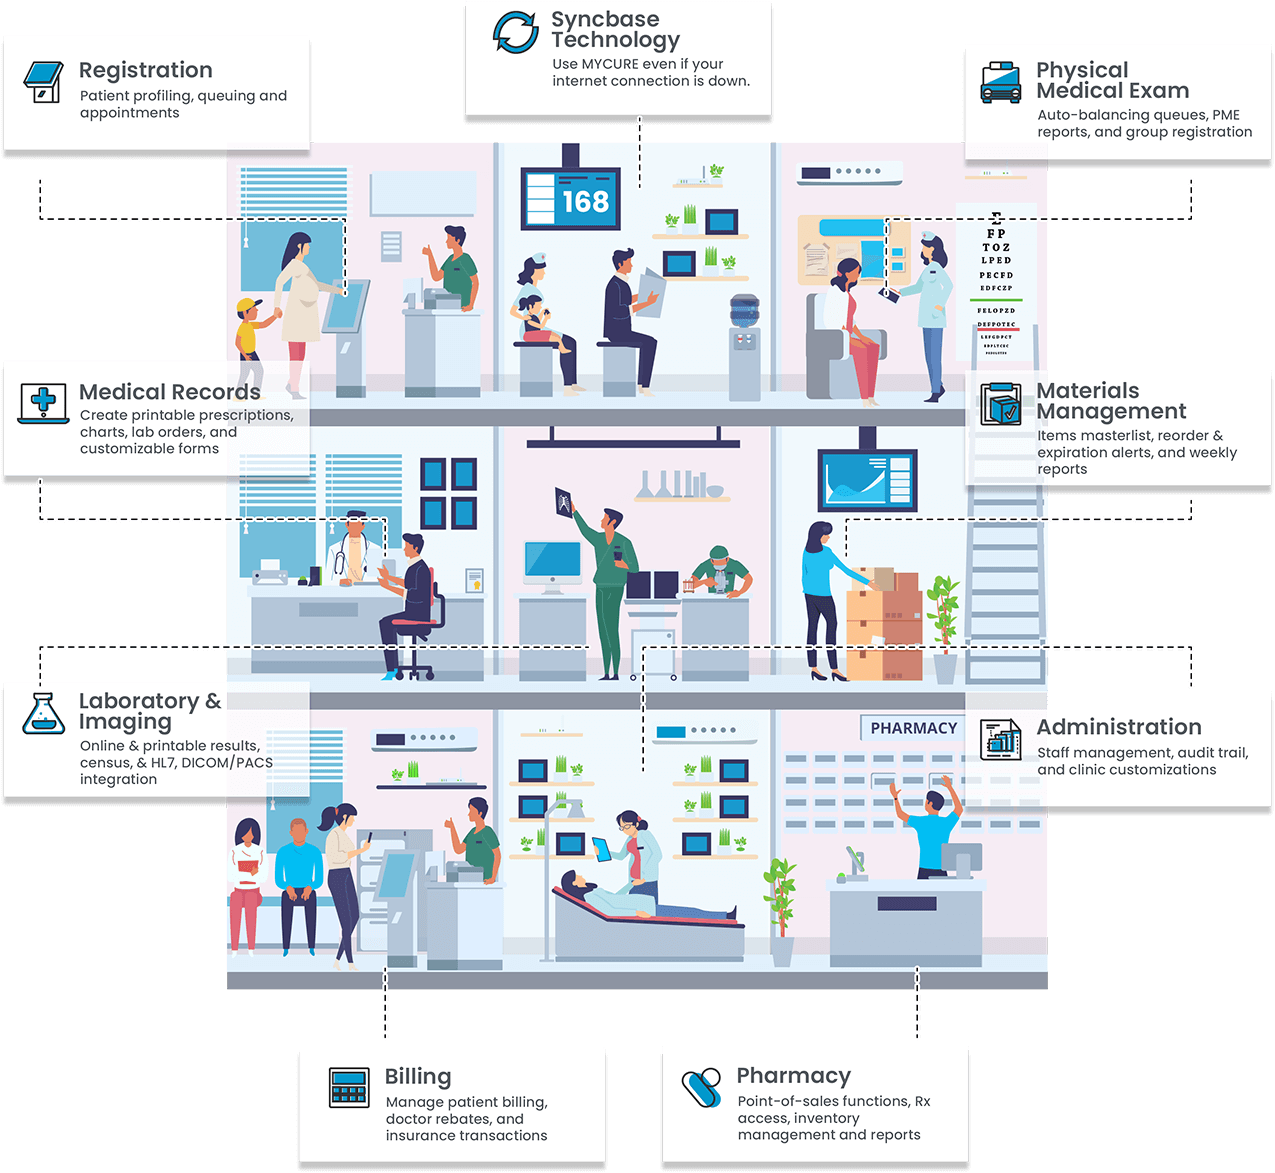
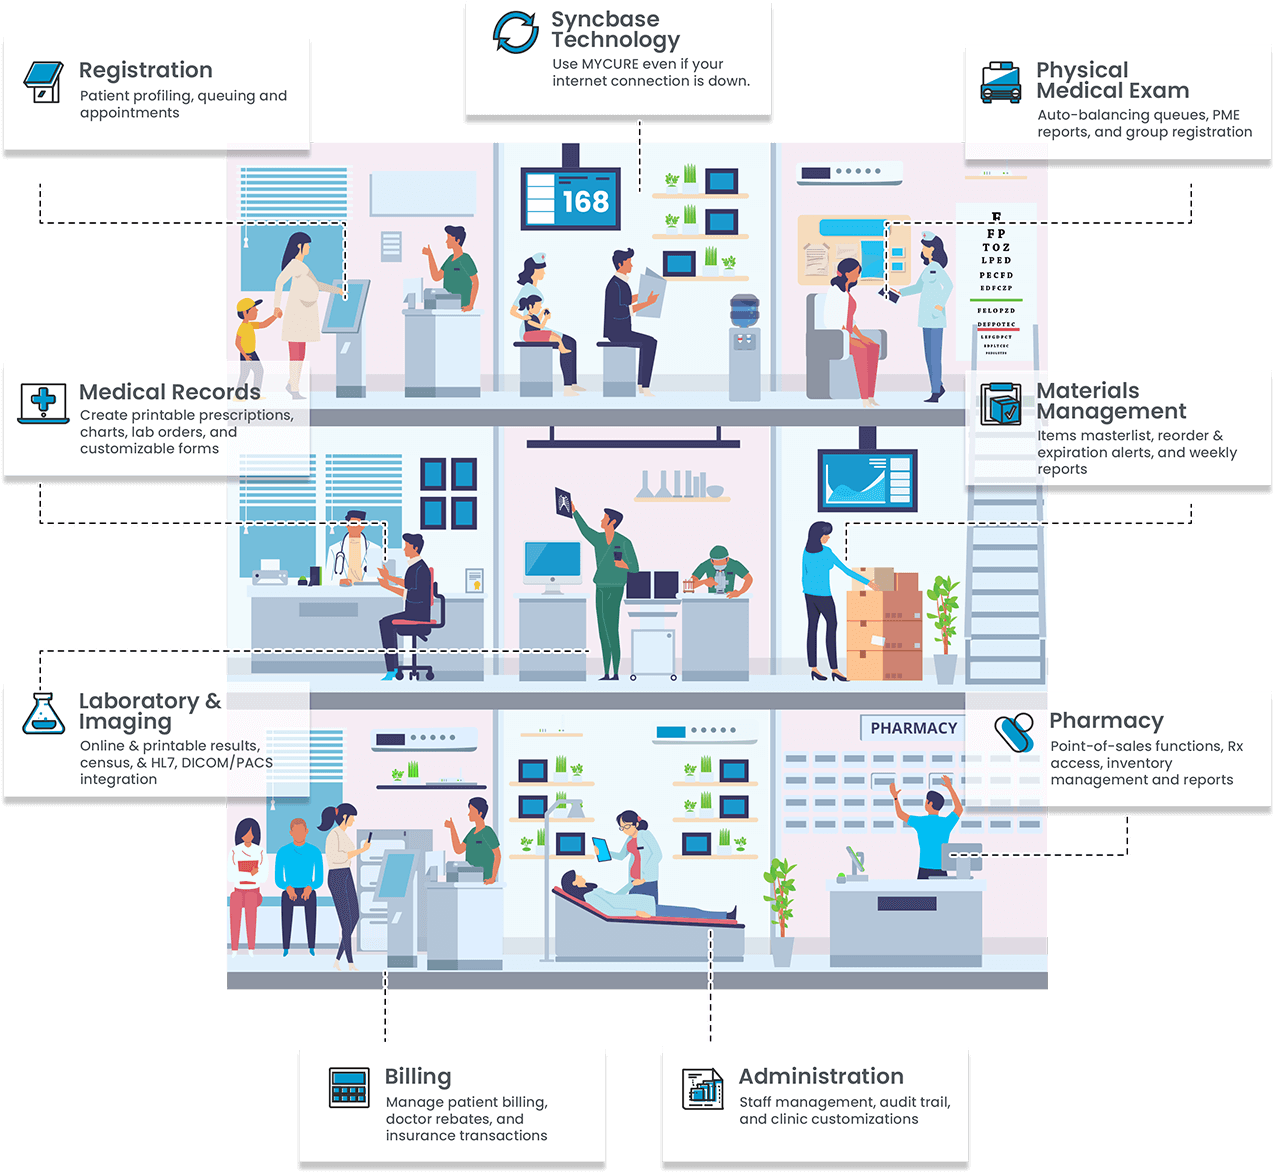
refactor: change health solutions order

diff --git a/src/components/home/solutions/constants.js b/src/components/home/solutions/constants.js
@@ -49,10 +49,9 @@ export const SOLUTIONS = [
     icon: 'mycure-web-clinic-feature-icon-lab'
   },
   {
-    title: 'Administration',
-    description: 'Staff management, audit trail, and clinic customizations',
-    icon: 'mycure-icon-report-active',
-    customPath: 'mycure features icon set/'
+    title: 'Pharmacy',
+    description: 'Point-of-sales functions, Rx access, inventory management and reports',
+    icon: 'mycure-web-clinic-feature-icon-pharmacy'
   },
   {
     title: 'Billing',
@@ -61,8 +60,9 @@ export const SOLUTIONS = [
     customPath: 'mycure features icon set/'
   },
   {
-    title: 'Pharmacy',
-    description: 'Point-of-sales functions, Rx access, inventory management and reports',
-    icon: 'mycure-web-clinic-feature-icon-pharmacy'
-  },
+    title: 'Administration',
+    description: 'Staff management, audit trail, and clinic customizations',
+    icon: 'mycure-icon-report-active',
+    customPath: 'mycure features icon set/'
+  }
 ];
